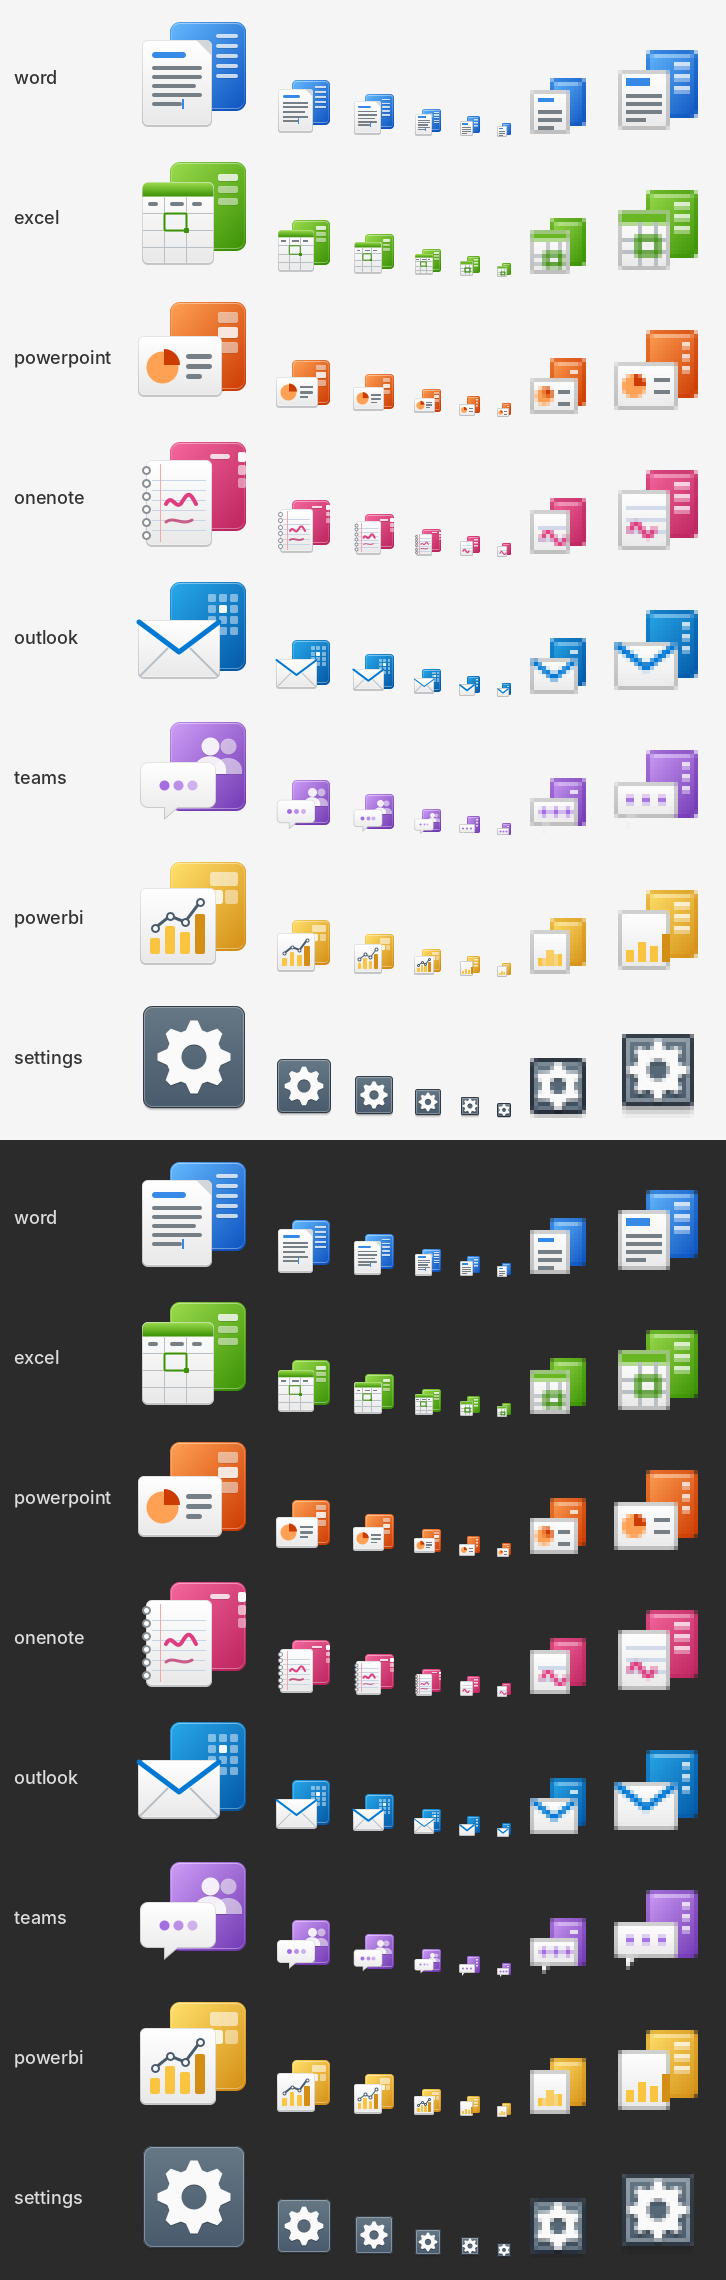
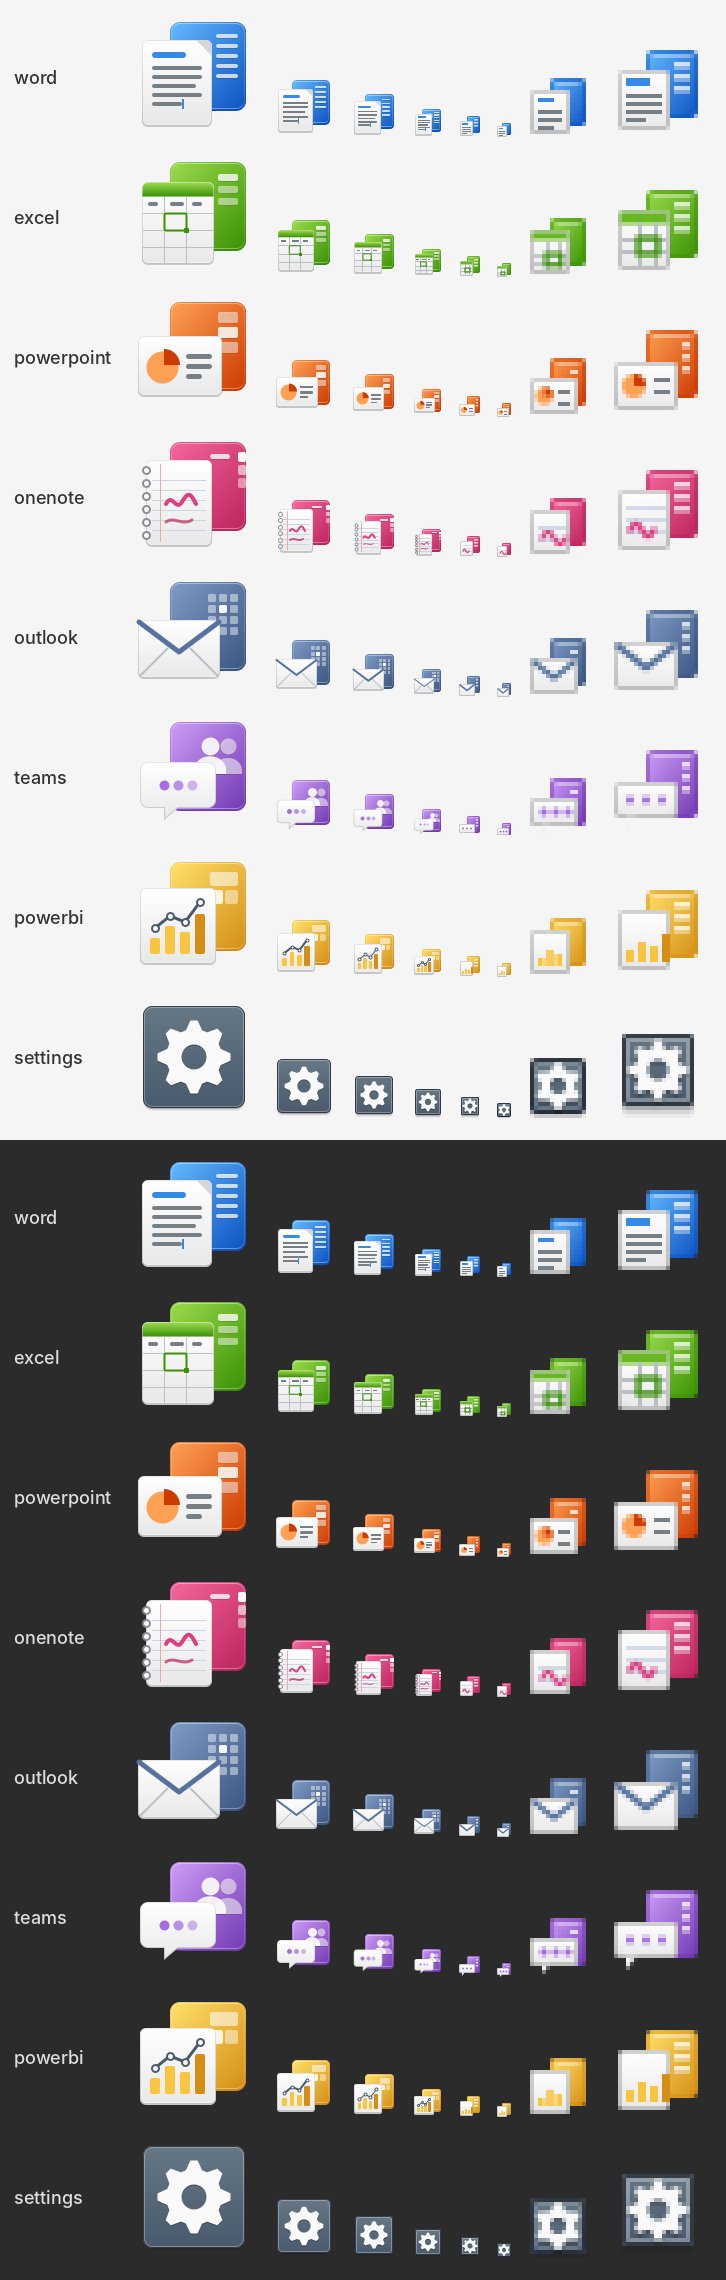
Lucarne 0.6.2
Icône et barre de fenêtre d'Outlook en bleu denim au lieu des bleus de
Microsoft. README et CREDITS mis à jour en conséquence.

diff --git a/shell/src/identity.ts b/shell/src/identity.ts
@@ -13,7 +13,7 @@ export interface AppInfo {
   id: AppId;
   name: string;
   home: string;
-  /** Header bar colours (elementary palette, matching the icon): top and bottom of the gradient, dark edge. */
+  /** Header bar colours (same palette as the icon): top and bottom of the gradient, dark edge. */
   brand: [string, string, string];
   /** Documents open one window each; the others keep a single window. */
   documents: boolean;
@@ -29,7 +29,7 @@ export const APPS: Record<AppId, AppInfo> = {
   onenote: { id: "onenote", name: "OneNote", home: "https://www.office.com/launch/onenote?auth=2",
     brand: ["#de3e80", "#bc245d", "#910e38"], documents: false },
   outlook: { id: "outlook", name: "Outlook", home: "https://outlook.office.com/mail/",
-    brand: ["#0078d4", "#0358a7", "#032d60"], documents: false },
+    brand: ["#56739f", "#3b5680", "#243a5c"], documents: false },
   teams: { id: "teams", name: "Teams", home: "https://teams.microsoft.com/v2/",
     brand: ["#a56de2", "#7239b3", "#452981"], documents: false },
   powerbi: { id: "powerbi", name: "Power BI", home: "https://app.powerbi.com/home",

diff --git a/icons/deux_plans.py b/icons/deux_plans.py
@@ -20,16 +20,9 @@ BUBBLEGUM = ("#fe9ab8", "#f4679d", "#de3e80", "#bc245d", "#910e38")
 ORANGE = ("#ffc27d", "#ffa154", "#f37329", "#cc3b02", "#a62100")
 GRAPE = ("#e4c6fa", "#cd9ef7", "#a56de2", "#7239b3", "#452981")
 BANANA = ("#fff394", "#ffe16b", "#f9c440", "#d48e15", "#ad5f00")
-OUTLOOK = ("#7fd8ff", "#28a8ea", "#0078d4", "#0358a7", "#032d60")
-TEAMS = ("#c5cbfa", "#7b83eb", "#5b5fc7", "#444791", "#2b2c5e")   # violets Microsoft Teams
-# Couleurs des icônes Microsoft 365 actuelles (2026-10-07), en cinq tons comme la palette elementary
-WORD = ("#a9d6fb", "#41a5ee", "#2b7cd3", "#185abd", "#103f91")
-EXCEL = ("#9ee6c2", "#33c481", "#21a366", "#107c41", "#185c37")
-POWERPOINT = ("#ffc4b0", "#ff8f6b", "#ed6c47", "#c43e1c", "#8f2b12")
-ONENOTE = ("#e7b9f5", "#ca64ea", "#ae4bd5", "#9332bf", "#7719aa")
-POWERBI = ("#fff0a0", "#f2c811", "#e8b100", "#c08a00", "#8a5d00")
-# Piste G1 (2026-10-08) : palette elementary au lieu des couleurs de marque, sauf Outlook (choix de Melvin)
-PAL = {"word": BLUEBERRY, "excel": LIME, "powerpoint": ORANGE, "outlook": OUTLOOK,
+# Outlook : bleu denim, hors palette elementary pour rester à distance du bleu de Word (2026-10-08)
+DENIM = ("#b7c9e2", "#7f9cc6", "#56739f", "#3b5680", "#243a5c")
+PAL = {"word": BLUEBERRY, "excel": LIME, "powerpoint": ORANGE, "outlook": DENIM,
        "onenote": BUBBLEGUM, "teams": GRAPE, "powerbi": BANANA}
 INK = "#767e86"     # lignes de texte sur le papier
 RULE = "#b8bfc5"    # filets de grille

diff --git a/icons/lucarne_icons.py b/icons/lucarne_icons.py
@@ -2,7 +2,7 @@
 """Icônes Lucarne : pictogrammes neutres au style elementary OS.
 
 Aucune lettre ni forme reprise des logos Microsoft. Les 7 applis sont dessinées
-par deux_plans.py (tuile de la palette elementary, objet blanc devant) ; ce module
+par deux_plans.py (tuile de la palette elementary, bleu denim pour Outlook, objet blanc devant) ; ce module
 dessine l'engrenage de Réglages, écrit les SVG et la planche de contrôle.
 
 Chaque taille est dessinée dans sa propre grille de pixels (viewBox = taille),

diff --git a/CREDITS.md b/CREDITS.md
@@ -13,18 +13,19 @@ sous quelle licence, et ce qui en a été repris.
 
 ## Idées et méthodes
 
-- **teams-for-linux** a servi de référence pour une grande partie du travail sur Teams :
+- teams-for-linux a servi de référence pour une grande partie du travail sur Teams :
   lecture des événements d'appel et de présence dans la page, correctifs du micro et de la
   caméra, réglages des réseaux d'entreprise (proxy, certificats, cartes à puce, Intune), fonds
   personnalisés, contournement de `ERR_QUIC_PROTOCOL_ERROR` (ticket #2518). Le code de Lucarne
   est écrit à part en TypeScript, sauf le module WebAuthn ci-dessus. Merci à Ismael Martinez et
   à tous ceux qui y ont contribué.
-- **elementary OS** : style des icônes (éclairage, filets de 1 px, palette), barre de titre et
+- elementary OS : style des icônes (éclairage, filets de 1 px, palette de couleurs, sauf pour
+  Outlook qui a un bleu denim propre au projet, plus éloigné du bleu de Word), barre de titre et
   [Human Interface Guidelines](https://docs.elementary.io/hig). Les couleurs d'accent sont lues
   dans le thème `io.elementary.stylesheet.*`. Aucun fichier d'icône d'elementary n'est copié :
   les icônes de Lucarne sont générées par `icons/deux_plans.py`.
-- **Granite** et **GTK 4** pour l'application de réglages.
-- **Inter** de Rasmus Andersson (SIL Open Font License 1.1) remplace Segoe UI dans les pages
+- Granite et GTK 4 pour l'application de réglages.
+- Inter de Rasmus Andersson (SIL Open Font License 1.1) remplace Segoe UI dans les pages
   quand elle est installée. Lucarne ne la fournit pas.
 
 ## Dépendances

diff --git a/README.md b/README.md
@@ -130,5 +130,7 @@ Microsoft, Microsoft 365, Office, Word, Excel, PowerPoint, OneNote, Outlook, Tea
 SharePoint et OneDrive sont des marques de Microsoft Corporation. Lucarne est un projet
 indépendant, non affilié à Microsoft et non approuvé par Microsoft. Ces noms servent seulement
 à dire quel service s'ouvre dans quelle fenêtre. Les icônes sont des dessins originaux faits
-pour le projet : elles ne reprennent ni les logos ni les lettres de Microsoft. Lucarne ne
+pour le projet : elles ne reprennent ni les logos ni les lettres de Microsoft, et leurs couleurs
+viennent de la palette d'elementary OS (Outlook a un bleu denim à part, pour ne pas se confondre
+avec Word). Lucarne ne
 contient ni code, ni image, ni police de Microsoft.
